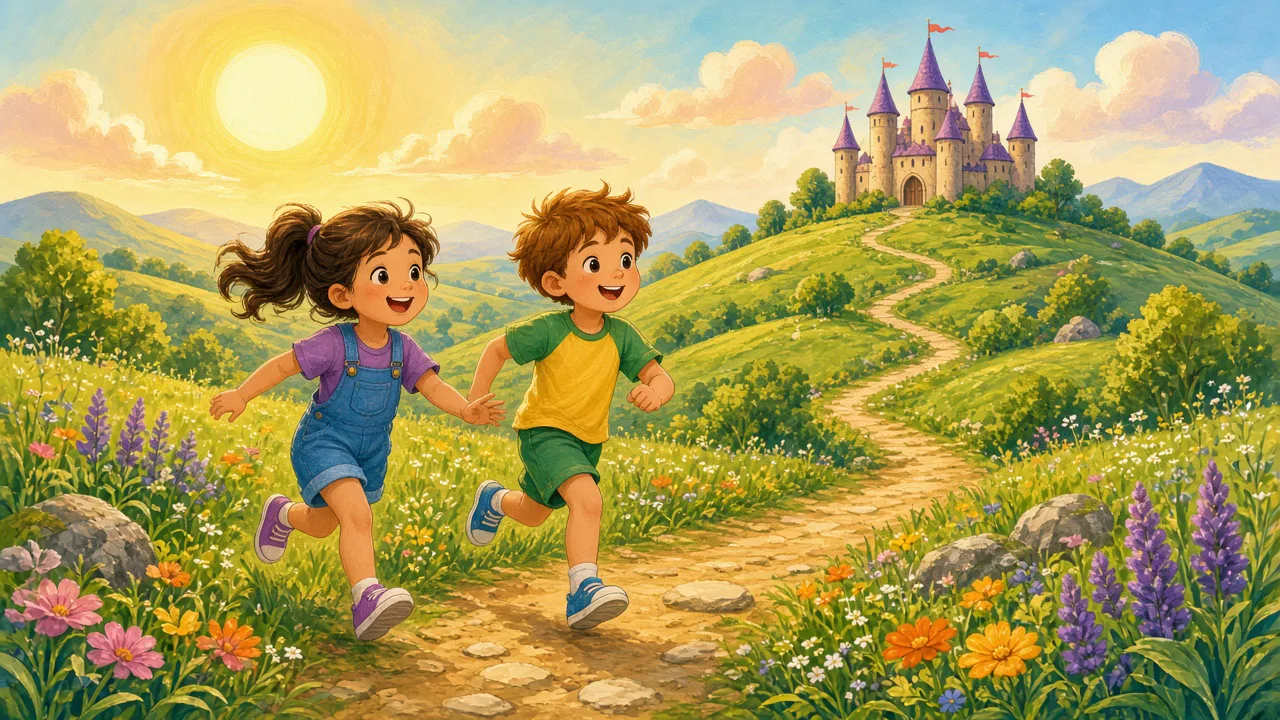
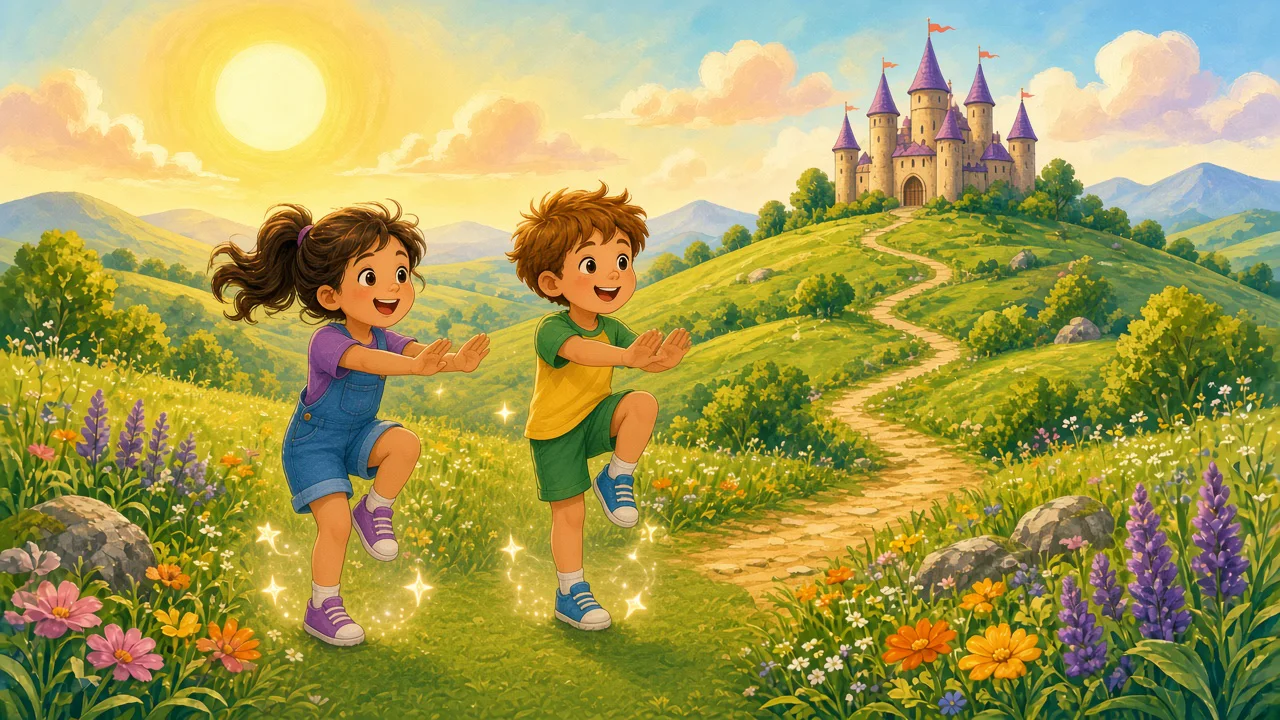
Make Kids Quest read as storybook physical therapy.
Keep the storybook look and show the kids doing stretches and reps, with copy that names the exercises.

diff --git a/src/components/AuthLanding.tsx b/src/components/AuthLanding.tsx
@@ -344,13 +344,15 @@ export function AuthLanding({ mode }: AuthLandingProps) {
                 href="/kids"
                 className="rm-glow-kids relative block min-h-[14rem] overflow-hidden rounded-[1.35rem] shadow-[0_12px_24px_rgba(40,24,8,0.14)] sm:min-h-[16rem]"
               >
-                <PhotoFrame src="/images/landing-kids-quest.webp" alt="Kids Quest adventure world." className="absolute inset-0 h-full w-full" />
+                <PhotoFrame src="/images/landing-kids-quest.webp?v=2" alt="Kids Quest storybook: children doing physical therapy exercises on the path to a castle." className="absolute inset-0 h-full w-full" />
                 <div className="absolute inset-0 bg-gradient-to-t from-[#2a1848]/80 via-[#2a1848]/20 to-transparent" />
                 <div className="absolute inset-x-0 bottom-0 flex items-end justify-between gap-3 p-4 sm:p-5">
                   <div>
-                    <p className="rm-kids-type text-[11px] font-bold uppercase tracking-[0.16em] text-amber-200">Younger patients</p>
+                    <p className="rm-kids-type text-[11px] font-bold uppercase tracking-[0.16em] text-amber-200">Physical therapy exercises</p>
                     <p className="rm-kids-type mt-0.5 text-2xl text-amber-50 drop-shadow sm:text-3xl">Kids Quest</p>
-                    <p className="mt-1 text-sm font-medium text-amber-100/90">Storybook world. No sign-in.</p>
+                    <p className="mt-1 max-w-xs text-sm font-medium leading-5 text-amber-100/90">
+                      Storybook quests made of today&apos;s stretches and reps. No sign-in.
+                    </p>
                   </div>
                   <span className="kids-cta rm-btn rm-kids-type h-9 min-h-0 rounded-full px-4 text-sm">Open</span>
                 </div>

diff --git a/src/app/page.tsx b/src/app/page.tsx
@@ -161,16 +161,16 @@ export default function Home() {
         </section>
 
         <section className="relative mt-5 overflow-hidden rounded-[1.25rem]">
-          <PhotoFrame src="/images/landing-kids-quest.webp" alt="" className="h-36 sm:h-44" />
+          <PhotoFrame src="/images/landing-kids-quest.webp?v=2" alt="" className="h-36 sm:h-44" />
           <div className="absolute inset-0 bg-gradient-to-r from-[#2a1848]/75 via-[#2a1848]/35 to-transparent" />
           <div className="rm-glow-kids absolute inset-0 flex flex-col justify-end gap-3 p-4 sm:flex-row sm:items-end sm:justify-between sm:p-5">
             <div className="kids-glass p-3 sm:max-w-xl sm:p-4">
               <p className="rm-kids-type flex items-center gap-2 text-xs font-bold uppercase tracking-[0.16em] text-[#8a4a10]">
-                Younger patients
+                Physical therapy exercises
               </p>
               <h2 className="rm-kids-type kids-title-ink mt-0.5 text-2xl sm:text-3xl">Kids Quest</h2>
               <p className="mt-1 text-sm font-medium leading-5 text-[#3a2a58]">
-                Storybook adventure world for younger patients, with kingdoms, quests, and gold stars.
+                Storybook quests made of today&apos;s stretches and reps, with kingdoms and gold stars.
               </p>
             </div>
             <Link href="/kids" className="kids-cta rm-btn rm-kids-type h-10 min-h-0 rounded-full px-5 text-sm sm:h-11 sm:text-base">

diff --git a/src/components/GoInScreen.tsx b/src/components/GoInScreen.tsx
@@ -139,7 +139,7 @@ export function GoInScreen({ mode }: GoInScreenProps) {
               <p className="rm-kids-type flex items-center gap-2 text-base font-bold text-[#2a1848]">
                 <KidsIcon name="gamepad" size={18} /> Kids Quest
               </p>
-              <p className="text-xs font-semibold text-[#5a3a18] sm:text-sm">Open the storybook. No email needed.</p>
+              <p className="text-xs font-semibold text-[#5a3a18] sm:text-sm">Storybook physical therapy. No email needed.</p>
             </span>
             <Chevron className="text-[#c47a32]" />
           </div>
